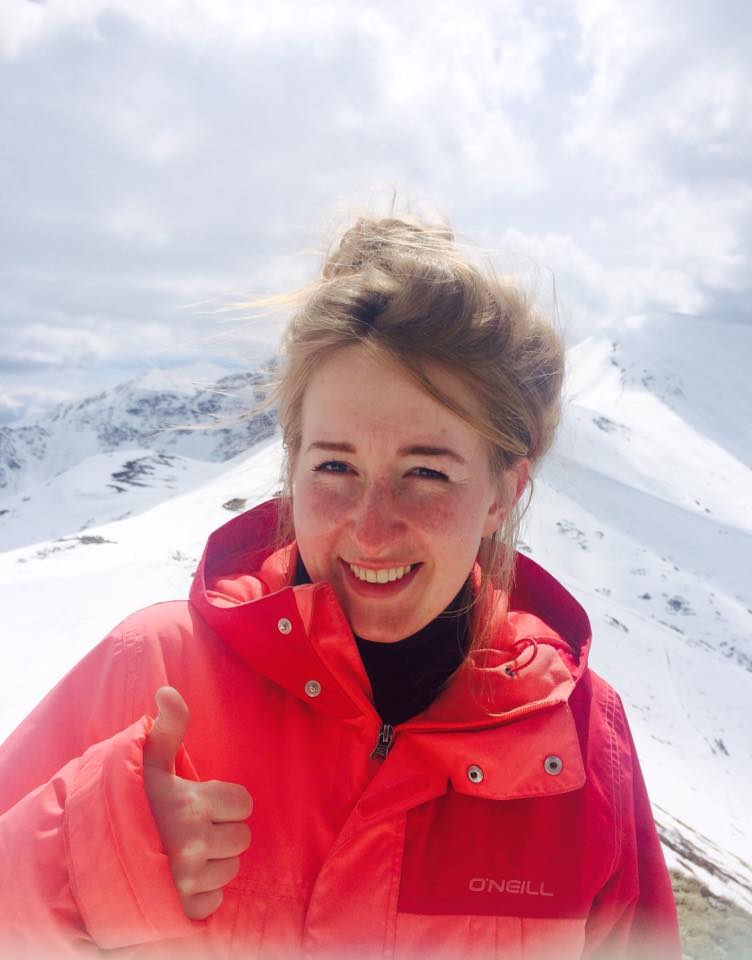
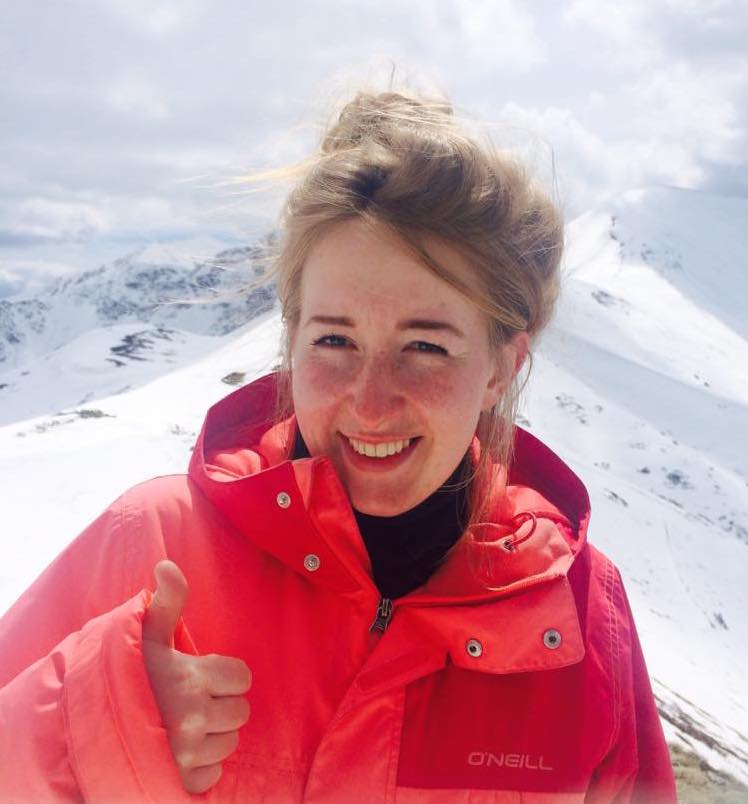
Creat a infromation section

diff --git a/index.html b/index.html
@@ -31,7 +31,43 @@
         </div>
     </nav>
 
-    <a href="pages/about-me.html">Go to about me</a>
+    <main>
+        <section class="basics">
+            <figure>
+                <img src="images/1.jpg" alt="Marta Łoskot picture">
+            </figure>
+            <hr />
+            <div class="description">
+                <h1>Welcome! I'm Marta</h1>
+                <p>And I love my life. </p>
+                <p>Currently, i am self-taught Junior Frontend Developer, certified engineer and completely baking
+                    lover.
+                </p>
+                <p>Lucky me, have a great support of my beloved friends from the IT industry, i am taking my practical
+                    knowledge from <a href="#">Ania Kubow course</a> and from October 2023 I start my studies at the
+                    Silesian University of Technology in the field of - attention, attention please! - programming. So I
+                    take it very seriously (job, not study ;).</p>
+                <p>Checkout my works below. I put a lot of work, time and heart into it.Hope You enjoy it!</p>
+            </div>
+        </section>
+        <section class="projects"></section>
+    </main>
+<!-- 
+    <aside class="socials">
+        <a href="#">
+            <img src="#" alt="twitter_icon">
+        </a>
+        <a href="#">
+            <img src="#" alt="instagram_icon">
+        </a>
+        <a href="#">
+            <img src="#" alt="github_icon">
+        </a>
+    </aside>
+
+    <footer>
+        <a href="pages/about-me.html">Go to about me</a>
+    </footer> -->
 
     <script scr="js/app.js"></script>
 

diff --git a/css/style.css b/css/style.css
@@ -21,7 +21,7 @@ nav {
     display: flex;
     justify-content: space-between;
     align-items: center;
-    background-color: rgba(65, 105, 225, 0.7);
+    background-color: rgba(65, 105, 225, 0.9);
     padding: 0 1.5rem;
 }
 
@@ -59,4 +59,35 @@ section.left_side .links a {
 .icon img {
     width: 1.5rem;
     padding: 0.2rem;
+}
+
+main {
+   width: 90%;
+   margin: 3rem auto;
+}
+
+section.basics {
+    border: solid 3px lightblue;
+    display: flex;
+    align-items: center;
+}
+
+section.basics figure, section.basics .description {
+    width: 45%;
+    display: inline-block;
+    vertical-align: top;
+    margin: 0 0.25em;
+}
+section.basics img {
+    width: 100%;
+    border-radius: 50%;
+}
+
+section.basics hr {
+    
+    background: rgba(65, 105, 225, 0.4);
+    /* can we skip the height? */
+    width: 0.8%;
+    height: 20rem;
+    border-width: 0;
 }
